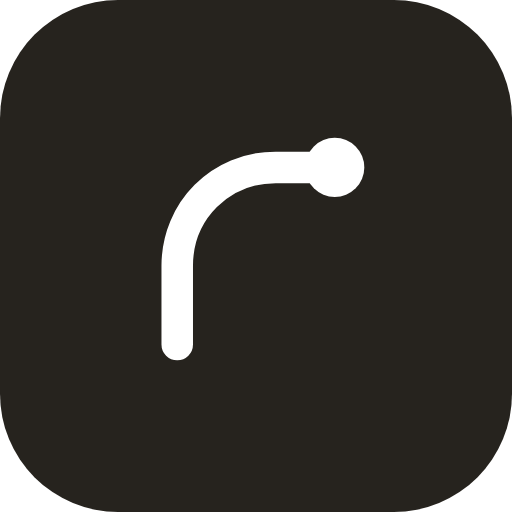
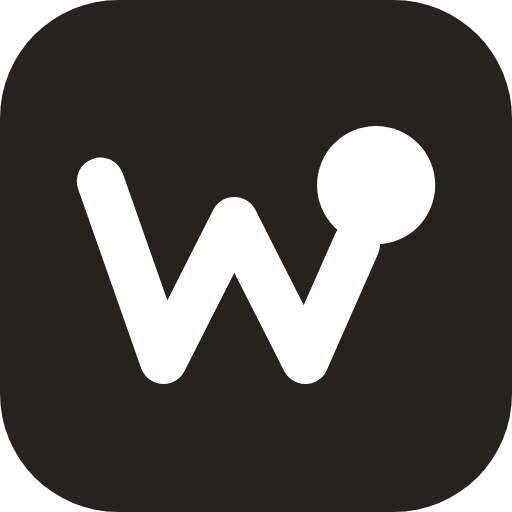
feat(brand): the Switchback W mark, and the name in Bold everywhere
The mark is the name's W walked as one trail, its last leg running into
the host it reaches (direction C, chosen 2026-11-04). Stroke 2.4 of 26
units (1.5 px at 16 px), the host r 3 so it reads as a dot at 16 px,
centred on the tile; the maskable icon draws it at 0.74 so it keeps
7.5 units from the centre. The wordmark's name is outlined from Atkinson
Hyperlegible Next Bold, and the app sets the name in Bold as the site does.

Changed region(s): [[0.125, 0.2188, 0.875, 0.75]]

diff --git a/src/app/shared/icon/mark.ts b/src/app/shared/icon/mark.ts
@@ -8,15 +8,17 @@ import { ChangeDetectionStrategy, Component } from "@angular/core";
   selector: "app-mark",
   template: `<svg viewBox="0 0 26 26" width="100%" height="100%" focusable="false">
     <rect class="brand-mark-tile" width="26" height="26" rx="6" />
-    <path
-      class="brand-mark-route"
-      d="M9 17.5V13.5C9 10.7 11.2 8.5 14 8.5H17"
-      fill="none"
-      stroke-width="1.6"
-      stroke-linecap="round"
-      stroke-linejoin="round"
-    />
-    <circle class="brand-mark-host" cx="17" cy="8.5" r="1.5" />
+    <g class="brand-mark-glyph">
+      <path
+        d="M5.1 9.2L8.3 18.3L11.9 11.2L15.5 18.3L18.1 12.4"
+        fill="none"
+        stroke="currentColor"
+        stroke-width="2.4"
+        stroke-linecap="round"
+        stroke-linejoin="round"
+      />
+      <circle cx="19.1" cy="9.4" r="3" fill="currentColor" />
+    </g>
   </svg>`,
   host: { class: "brand-mark", "aria-hidden": "true" },
   changeDetection: ChangeDetectionStrategy.OnPush,

diff --git a/src/app/components/app-shell/app-shell.html b/src/app/components/app-shell/app-shell.html
@@ -12,7 +12,7 @@
       <div class="flex items-center gap-2.5">
         <app-mark class="size-6.5" />
         <div class="flex flex-col">
-          <span class="type-title-3 text-label-primary" style="line-height: 1.1"> Wayfarer </span>
+          <span class="type-title-3 font-bold text-label-primary" style="line-height: 1.1"> Wayfarer </span>
         </div>
       </div>
       <div class="flex items-center gap-1">
@@ -178,7 +178,7 @@
         @if (sidebarOverlay() || !drawerVisible()) {
         <div class="hidden lg:flex items-center gap-2">
           <app-mark class="size-5.5" />
-          <span class="type-title-3 text-label-secondary" style="font-weight: 500">Wayfarer</span>
+          <span class="type-title-3 font-bold text-label-secondary">Wayfarer</span>
         </div>
         }
       </div>

diff --git a/packages/site/src/components/Mark.tsx b/packages/site/src/components/Mark.tsx
@@ -7,14 +7,14 @@ export function Mark({ className = "" }: { className?: string }) {
     <svg viewBox="0 0 26 26" aria-hidden="true" focusable="false" className={`shrink-0 ${className}`}>
       <rect width="26" height="26" rx="6" className="fill-ink" />
       <path
-        d="M9 17.5V13.5C9 10.7 11.2 8.5 14 8.5H17"
+        d="M5.1 9.2L8.3 18.3L11.9 11.2L15.5 18.3L18.1 12.4"
         fill="none"
-        strokeWidth="1.6"
+        strokeWidth="2.4"
         strokeLinecap="round"
         strokeLinejoin="round"
         className="stroke-paper"
       />
-      <circle cx="17" cy="8.5" r="1.5" className="fill-paper" />
+      <circle cx="19.1" cy="9.4" r="3" className="fill-paper" />
     </svg>
   );
 }

diff --git a/src/styles.css b/src/styles.css
@@ -4,6 +4,8 @@
 @import "@fontsource/atkinson-hyperlegible-next/400.css";
 @import "@fontsource/atkinson-hyperlegible-next/500.css";
 @import "@fontsource/atkinson-hyperlegible-next/600.css";
+/* Bold is the name's alone, as the site sets it (packages/tokens/brand/README.md). */
+@import "@fontsource/atkinson-hyperlegible-next/700.css";
 @import "@fontsource-variable/inter/opsz.css";
 @import "@fontsource-variable/inter/opsz-italic.css";
 @import "@fontsource/jetbrains-mono/400.css";

diff --git a/src/design-system/components.css b/src/design-system/components.css
@@ -385,21 +385,15 @@ pre,
 .brand-mark-tile {
   fill: var(--ink);
 }
-.brand-mark-route {
-  stroke: var(--on-ink);
-}
-.brand-mark-host {
-  fill: var(--on-ink);
+.brand-mark-glyph {
+  color: var(--on-ink);
 }
 @media (forced-colors: active) {
   .brand-mark-tile {
     fill: CanvasText;
   }
-  .brand-mark-route {
-    stroke: Canvas;
-  }
-  .brand-mark-host {
-    fill: Canvas;
+  .brand-mark-glyph {
+    color: Canvas;
   }
 }
 

diff --git a/packages/tokens/brand/README.md b/packages/tokens/brand/README.md
@@ -10,25 +10,36 @@ Every file here is written from `../brand.mjs` and the tokens: do not edit one b
 
 ## The mark
 
-A path that sets out and turns to the host it reaches, on a rounded tile. It is the first mark's
-glyph; what changed in D2.4 is its colour. The tile is the ink, Send's fill, and the glyph the colour
-on it (`--ink` and `--on-ink`), so it is dark on the light theme and light on the dark one. Hue means a
-method or a status in Wayfarer and nothing else (DQ11), so the mark has none.
+The "Switchback W" (chosen on 2026-11-04): the name's W drawn as one trail that doubles back on
+itself, its last leg running into a dot, the host it reaches. It is what Wayfarer shows of every
+request: where it went. The dot is wider than the stroke so that it still reads as a dot at 16 px;
+without it the mark is a plain W.
+
+The tile is the ink, Send's fill, and the glyph the colour on it (`--ink` and `--on-ink`), so it is
+dark on the light theme and light on the dark one. Hue means a method or a status in Wayfarer and
+nothing else (DQ11), so the mark has none. The glyph is 2.4 units wide on the 26-unit tile, centred,
+and drawn inline in the app (`app-mark`) and on the site (`Mark.tsx`) from the same numbers
+(`TRAIL` and `HOST` in `../brand.mjs`; `scripts/installed-app.test.mjs` holds them equal).
+
+The name is set in Atkinson Hyperlegible Next Bold (700), in the app, on the site and in the
+wordmark, and in no other weight.
 
 | File | What it is |
 | --- | --- |
 | `mark.svg`, `mark-dark.svg` | The mark, for a light and a dark ground. 26 units; the tile's corners are 6. |
-| `wordmark.svg`, `wordmark-dark.svg` | The mark and the name, as the sidebar sets them: the name in Atkinson Hyperlegible Next SemiBold at 15 beside the 26-unit mark, 10 apart, its capitals centred on the tile. The name is outlined, so the file needs no font. |
+| `wordmark.svg`, `wordmark-dark.svg` | The mark and the name, as the sidebar sets them: the name in Atkinson Hyperlegible Next Bold at 15 beside the 26-unit mark, 10 apart, its capitals centred on the tile. The name is outlined, so the file needs no font. |
 | `favicon.svg` | The mark in the browser's own scheme (`prefers-color-scheme`). |
-| `maskable.svg` | The installed app's maskable icon: the tile fills the square, and the glyph keeps the mark's size, inside the safe zone. |
+| `maskable.svg` | The installed app's maskable icon: the tile fills the square, and the glyph is drawn at 0.74 of its size, 7.5 units from the centre at most, well inside the safe zone. |
 | `app/icon-192.png`, `app/icon-512.png` | The manifest's `any` icons: the mark, its corners clear. |
 | `app/maskable-512.png` | The manifest's `maskable` icon. |
 | `app/apple-touch-icon.png` | 180 px, the full square: iOS cuts its own corners. |
 | `app/favicon.ico` | The mark at 16, 32 and 48 px, for what does not read the SVG. |
 | `social.png` | 1,200 by 630: the wordmark and the line the site's home page leads with. The site's pages draw their own cards in the same colours (`packages/site/social-images.mjs`). |
 
-Use the mark at 16 px or more, with clear space of a quarter of its size around it. Do not recolour it,
-add a gradient or a shadow, or set the name in another face.
+Use the mark at 16 px or more: it was checked pixel by pixel at 16 and 32 px, and at 16 the dot is
+already only a little wider than the leg it ends. Leave clear space
+of a quarter of its size around it. Do not recolour it, add a gradient or a shadow, or set the name in
+another face or weight.
 
 ## The icon set
 

diff --git a/CHANGELOG.md b/CHANGELOG.md
@@ -718,6 +718,16 @@ and this project intends to adhere to [Semantic Versioning](https://semver.org/s
 
 ### Changed
 
+- **A new mark, and the name in one weight.** The mark is now a W drawn
+  as one trail, its last leg ending at a dot: the host a request reaches.
+  The old one, a thin hook with a small dot, was a grey smudge in a
+  browser tab (its line was under a pixel wide at 16 px) and read as a
+  lower-case "r". The new line is half again as heavy, so the favicon,
+  the installed app's icons, the site's header and the social images all
+  show a W at 16 px. The name "Wayfarer" is now set in Bold in the app,
+  as the site already set it; the app used SemiBold beside the mark and
+  a lighter weight in the toolbar.
+
 - **The design captures show the app as session D5-c left it.** The
   Chromium baseline of every screen is taken again after the fixes of
   the fifth pass.
